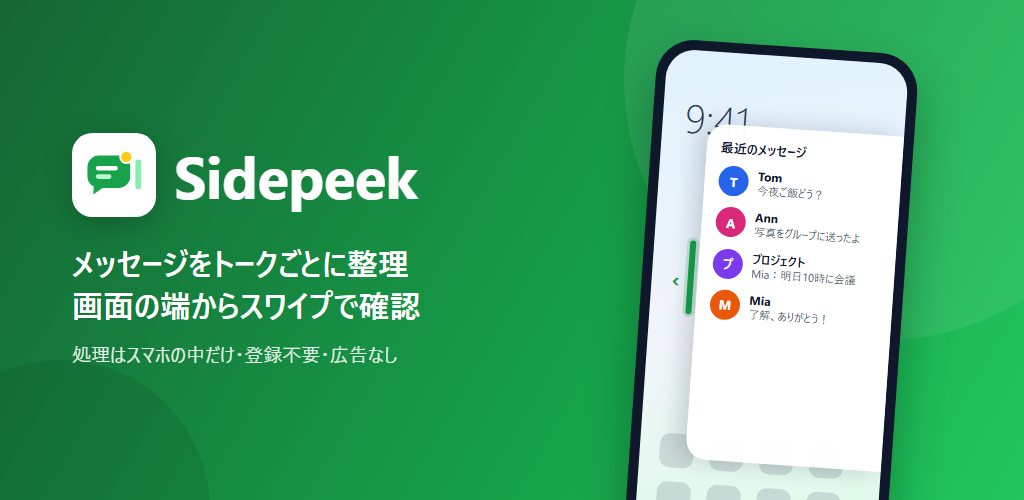
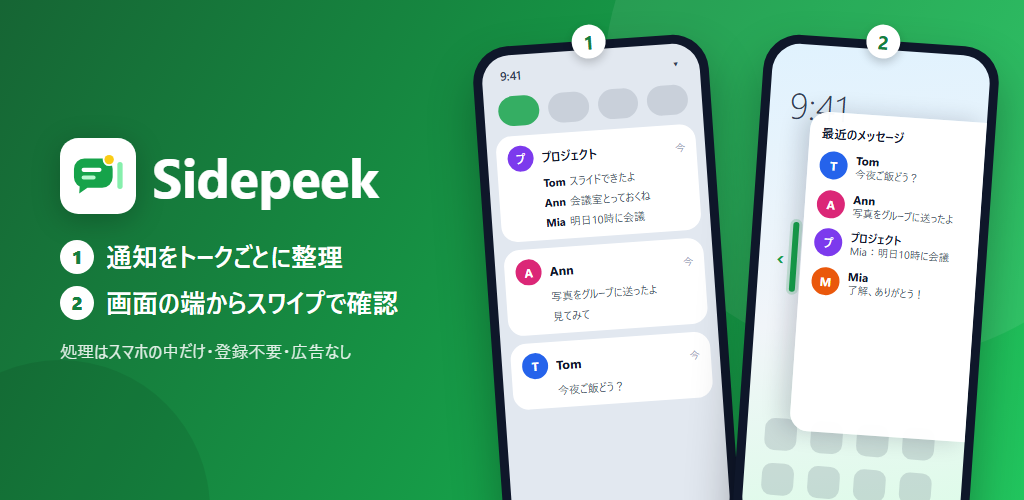
主題圖片改成兩支手機：聊天室整理＋Peek 側邊欄

diff --git a/store/feature-graphic/feature.html b/store/feature-graphic/feature.html
@@ -1,6 +1,7 @@
 <!doctype html>
 <!--
   Play 商店主題圖片（Feature graphic，1024×500）。
+  呈現兩個主要功能：①通知依聊天室整理（左手機：通知欄）②Peek 條＋側邊欄（右手機）。
   用 Chrome 無頭模式截圖產生四種語言的 PNG：node store/feature-graphic/render.js
   語言用網址 #zh-TW / #en / #ja / #ko 切換。畫面裡的名字、訊息都是假資料。
 -->
@@ -18,46 +19,66 @@
   body[data-lang="ja"]    { font-family: "Segoe UI", "Yu Gothic UI", "Meiryo UI", sans-serif; }
   body[data-lang="ko"]    { font-family: "Segoe UI", "Malgun Gothic", sans-serif; }
 
-  /* 背景的淡圓，增加層次 */
   .glow { position: absolute; border-radius: 50%; background: rgba(255,255,255,.08); }
-  .g1 { width: 520px; height: 520px; right: -120px; top: -180px; }
+  .g1 { width: 560px; height: 560px; right: -140px; top: -200px; }
   .g2 { width: 300px; height: 300px; left: -90px; bottom: -160px; background: rgba(0,0,0,.08); }
 
-  .left { position: absolute; left: 72px; top: 0; bottom: 0; width: 470px;
+  .left { position: absolute; left: 60px; top: 0; bottom: 0; width: 420px;
           display: flex; flex-direction: column; justify-content: center; }
-  .brand { display: flex; align-items: center; gap: 18px; }
-  .brand svg { width: 84px; height: 84px; filter: drop-shadow(0 6px 14px rgba(0,0,0,.22)); }
-  .name { font-size: 58px; font-weight: 700; letter-spacing: -.5px; }
-  .tag { margin-top: 26px; font-size: 31px; font-weight: 600; line-height: 1.35; }
-  .tag span { display: block; }
-  .sub { margin-top: 14px; font-size: 19px; opacity: .88; line-height: 1.4; }
+  .brand { display: flex; align-items: center; gap: 16px; }
+  .brand svg { width: 76px; height: 76px; filter: drop-shadow(0 6px 14px rgba(0,0,0,.22)); }
+  .name { font-size: 54px; font-weight: 700; letter-spacing: -.5px; }
+  .feat { margin-top: 26px; display: flex; flex-direction: column; gap: 12px; }
+  .feat div { display: flex; align-items: center; gap: 12px; font-size: 26px; font-weight: 600; line-height: 1.25; }
+  .feat b { flex: none; width: 34px; height: 34px; border-radius: 50%; background: #fff; color: #15803D;
+            font-size: 19px; display: flex; align-items: center; justify-content: center; }
+  .sub { margin-top: 20px; font-size: 17px; opacity: .88; }
 
-  /* 手機 */
-  .phone { position: absolute; left: 640px; top: 46px; width: 262px; height: 520px;
-           border-radius: 38px; background: #0F172A; padding: 10px; box-sizing: border-box;
-           box-shadow: 0 24px 48px rgba(0,0,0,.30); transform: rotate(4deg); }
-  .screen { position: relative; width: 100%; height: 100%; border-radius: 29px; overflow: hidden;
-            background: linear-gradient(170deg, #E0F2FE 0%, #F1F5F9 55%, #DCFCE7 100%); }
-  .clock { position: absolute; left: 22px; top: 40px; color: #334155; font-size: 40px; font-weight: 300; }
-  .apps { position: absolute; left: 20px; bottom: 34px; display: grid;
-          grid-template-columns: repeat(4, 34px); gap: 14px 16px; }
-  .apps i { width: 34px; height: 34px; border-radius: 10px; background: rgba(51,65,85,.16); display: block; }
+  /* 手機共用 */
+  .phone { position: absolute; top: 40px; width: 236px; height: 500px; border-radius: 36px;
+           background: #0F172A; padding: 9px; box-sizing: border-box; box-shadow: 0 24px 48px rgba(0,0,0,.30); }
+  .screen { position: relative; width: 100%; height: 100%; border-radius: 28px; overflow: hidden; }
+  .badge { position: absolute; top: -16px; left: 50%; transform: translateX(-50%); z-index: 2;
+           width: 34px; height: 34px; border-radius: 50%; background: #fff; color: #15803D;
+           font-size: 19px; font-weight: 700; display: flex; align-items: center; justify-content: center;
+           box-shadow: 0 4px 10px rgba(0,0,0,.2); }
 
-  /* 側邊欄 */
-  .panel { position: absolute; right: 0; top: 72px; width: 196px; bottom: 92px;
-           background: rgba(255,255,255,.97); border-radius: 20px 0 0 20px;
-           box-shadow: -8px 0 22px rgba(15,23,42,.18); padding: 14px 12px 0 14px; box-sizing: border-box; }
-  .panel h4 { margin: 0 0 10px; color: #0F172A; font-size: 13px; font-weight: 700; }
-  .row { display: flex; gap: 9px; align-items: flex-start; margin-bottom: 11px; }
-  .av { flex: none; width: 30px; height: 30px; border-radius: 50%; color: #fff;
-        font-size: 13px; font-weight: 700; display: flex; align-items: center; justify-content: center; }
+  /* ① 通知欄 */
+  .pA { left: 488px; transform: rotate(-4deg); }
+  .pA .screen { background: #E2E8F0; }
+  .bar { display: flex; justify-content: space-between; padding: 12px 18px 0; color: #334155; font-size: 12px; font-weight: 600; }
+  .qs { display: flex; gap: 9px; padding: 12px 14px 10px; }
+  .qs i { flex: 1; height: 30px; border-radius: 15px; background: rgba(51,65,85,.14); }
+  .qs i:first-child { background: #16A34A; opacity: .85; }
+  .card { margin: 0 9px 8px; background: #fff; border-radius: 16px; padding: 10px 11px; color: #0F172A; }
+  .ch { display: flex; align-items: center; gap: 8px; }
+  .ch .av { width: 26px; height: 26px; font-size: 12px; }
+  .ct { font-size: 12.5px; font-weight: 700; flex: 1; min-width: 0; white-space: nowrap; overflow: hidden; text-overflow: ellipsis; }
+  .tm { font-size: 10px; color: #94A3B8; }
+  .ln { margin: 5px 0 0 34px; font-size: 11px; color: #475569; white-space: nowrap; overflow: hidden; text-overflow: ellipsis; }
+  .ln s { text-decoration: none; color: #0F172A; font-weight: 700; margin-right: 4px; }
+
+  /* ② Peek 條＋側邊欄 */
+  .pB { left: 748px; transform: rotate(4deg); }
+  .pB .screen { background: linear-gradient(170deg, #E0F2FE 0%, #F1F5F9 55%, #DCFCE7 100%); }
+  .clock { position: absolute; left: 20px; top: 36px; color: #334155; font-size: 36px; font-weight: 300; }
+  .apps { position: absolute; left: 18px; bottom: 30px; display: grid;
+          grid-template-columns: repeat(4, 32px); gap: 13px 14px; }
+  .apps i { width: 32px; height: 32px; border-radius: 10px; background: rgba(51,65,85,.16); display: block; }
+  .panel { position: absolute; right: 0; top: 66px; width: 176px; bottom: 96px;
+           background: rgba(255,255,255,.97); border-radius: 18px 0 0 18px;
+           box-shadow: -8px 0 22px rgba(15,23,42,.18); padding: 13px 10px 0 12px; box-sizing: border-box; }
+  .panel h4 { margin: 0 0 10px; color: #0F172A; font-size: 12.5px; font-weight: 700; }
+  .row { display: flex; gap: 8px; align-items: flex-start; margin-bottom: 10px; }
   .txt { min-width: 0; }
-  .who { color: #0F172A; font-size: 12px; font-weight: 700; }
-  .msg { color: #475569; font-size: 11px; line-height: 1.3; white-space: nowrap; overflow: hidden; text-overflow: ellipsis; width: 128px; }
-  /* Peek 條 */
-  .peek { position: absolute; right: 200px; top: 190px; width: 6px; height: 74px; border-radius: 3px;
+  .who { color: #0F172A; font-size: 11.5px; font-weight: 700; }
+  .msg { color: #475569; font-size: 10.5px; line-height: 1.3; white-space: nowrap; overflow: hidden; text-overflow: ellipsis; width: 118px; }
+  .peek { position: absolute; right: 180px; top: 178px; width: 6px; height: 70px; border-radius: 3px;
           background: #16A34A; box-shadow: 0 0 0 3px rgba(22,163,74,.18); }
-  .hint { position: absolute; right: 214px; top: 214px; color: #16A34A; font-size: 22px; font-weight: 700; }
+  .hint { position: absolute; right: 193px; top: 199px; color: #16A34A; font-size: 21px; font-weight: 700; }
+
+  .av { flex: none; width: 28px; height: 28px; border-radius: 50%; color: #fff;
+        font-size: 12px; font-weight: 700; display: flex; align-items: center; justify-content: center; }
 </style>
 </head>
 <body>
@@ -78,44 +99,87 @@
     </svg>
     <div class="name">Sidepeek</div>
   </div>
-  <div class="tag"><span id="t1"></span><span id="t2"></span></div>
+  <div class="feat">
+    <div><b>1</b><span id="f1"></span></div>
+    <div><b>2</b><span id="f2"></span></div>
+  </div>
   <div class="sub" id="sub"></div>
 </div>
 
-<div class="phone"><div class="screen">
+<!-- ① 通知依聊天室整理 -->
+<div class="phone pA"><div class="badge">1</div><div class="screen">
+  <div class="bar"><span>9:41</span><span>▾</span></div>
+  <div class="qs"><i></i><i></i><i></i><i></i></div>
+  <div id="cards"></div>
+</div></div>
+
+<!-- ② Peek 條＋側邊欄 -->
+<div class="phone pB"><div class="badge">2</div><div class="screen">
   <div class="clock">9:41</div>
   <div class="apps"><i></i><i></i><i></i><i></i><i></i><i></i><i></i><i></i></div>
   <div class="peek"></div><div class="hint">‹</div>
-  <div class="panel">
-    <h4 id="ph"></h4>
-    <div id="rows"></div>
-  </div>
+  <div class="panel"><h4 id="ph"></h4><div id="rows"></div></div>
 </div></div>
 
 <script>
 const T = {
-  "zh-TW": { t1: "訊息依聊天室整理", t2: "從邊緣一滑就看到", sub: "全部在手機上處理・不需註冊・沒有廣告", ph: "最近訊息",
+  "zh-TW": { f1: "通知依聊天室整理", f2: "從邊緣一滑看最近訊息", sub: "全部在手機上處理・不需註冊・沒有廣告", ph: "最近訊息", now: "現在",
+    group: "專案", cards: [
+      ["專案", [["Tom", "投影片好了"], ["Ann", "我來訂會議室"], ["Mia", "明天十點開會"]]],
+      ["Ann", [["", "照片我傳到群組了"], ["", "你看一下"]]],
+      ["Tom", [["", "晚上一起吃飯嗎？"]]]],
     rows: [["Tom", "晚上一起吃飯嗎？"], ["Ann", "照片我傳到群組了"], ["專案", "Mia：明天十點開會"], ["Mia", "收到，謝謝！"]] },
-  "en": { t1: "Messages sorted by chat.", t2: "Swipe in from the edge.", sub: "Runs on your phone · No sign-up · No ads", ph: "Recent",
+  "en": { f1: "Notifications sorted by chat", f2: "Swipe in from the edge", sub: "Runs on your phone · No sign-up · No ads", ph: "Recent", now: "now",
+    cards: [
+      ["Project", [["Tom", "Slides are ready"], ["Ann", "I'll book the room"], ["Mia", "Meeting at 10 tomorrow"]]],
+      ["Ann", [["", "Photos are in the group"], ["", "Take a look"]]],
+      ["Tom", [["", "Dinner tonight?"]]]],
     rows: [["Tom", "Dinner tonight?"], ["Ann", "Photos are in the group"], ["Project", "Mia: Meeting at 10"], ["Mia", "Got it, thanks!"]] },
-  "ja": { t1: "メッセージをトークごとに整理", t2: "画面の端からスワイプで確認", sub: "処理はスマホの中だけ・登録不要・広告なし", ph: "最近のメッセージ",
+  "ja": { f1: "通知をトークごとに整理", f2: "画面の端からスワイプで確認", sub: "処理はスマホの中だけ・登録不要・広告なし", ph: "最近のメッセージ", now: "今",
+    cards: [
+      ["プロジェクト", [["Tom", "スライドできたよ"], ["Ann", "会議室とっておくね"], ["Mia", "明日10時に会議"]]],
+      ["Ann", [["", "写真をグループに送ったよ"], ["", "見てみて"]]],
+      ["Tom", [["", "今夜ご飯どう？"]]]],
     rows: [["Tom", "今夜ご飯どう？"], ["Ann", "写真をグループに送ったよ"], ["プロジェクト", "Mia：明日10時に会議"], ["Mia", "了解、ありがとう！"]] },
-  "ko": { t1: "메시지를 채팅방별로 정리", t2: "가장자리에서 밀어 바로 확인", sub: "모든 처리는 휴대폰 안에서 · 가입 없음 · 광고 없음", ph: "최근 메시지",
+  "ko": { f1: "알림을 채팅방별로 정리", f2: "가장자리에서 밀어 바로 확인", sub: "모든 처리는 휴대폰 안에서 · 가입 없음 · 광고 없음", ph: "최근 메시지", now: "지금",
+    cards: [
+      ["프로젝트", [["Tom", "슬라이드 다 했어"], ["Ann", "회의실은 내가 잡을게"], ["Mia", "내일 10시 회의"]]],
+      ["Ann", [["", "사진 그룹에 올렸어"], ["", "한번 봐줘"]]],
+      ["Tom", [["", "오늘 저녁 같이 먹을래?"]]]],
     rows: [["Tom", "오늘 저녁 같이 먹을래?"], ["Ann", "사진 그룹에 올렸어"], ["프로젝트", "Mia: 내일 10시 회의"], ["Mia", "알겠어, 고마워!"]] },
 };
-const COLORS = ["#2563EB", "#DB2777", "#7C3AED", "#EA580C"];
+const COLOR = { Tom: "#2563EB", Ann: "#DB2777", Mia: "#EA580C" };
+const GROUP_COLOR = "#7C3AED";
 const lang = (location.hash.slice(1) || "zh-TW");
 const d = T[lang] || T["zh-TW"];
 document.documentElement.lang = lang;
 document.body.dataset.lang = lang;
-for (const k of ["t1", "t2", "sub", "ph"]) document.getElementById(k).textContent = d[k];
-document.getElementById("rows").innerHTML = d.rows.map(([who, msg], i) =>
-  `<div class="row"><div class="av" style="background:${COLORS[i]}">${who[0]}</div>` +
-  `<div class="txt"><div class="who"></div><div class="msg"></div></div></div>`).join("");
-document.querySelectorAll("#rows .row").forEach((r, i) => {
-  r.querySelector(".who").textContent = d.rows[i][0];
-  r.querySelector(".msg").textContent = d.rows[i][1];
-});
+for (const k of ["f1", "f2", "sub", "ph"]) document.getElementById(k).textContent = d[k];
+
+const el = (tag, cls, text) => { const e = document.createElement(tag); if (cls) e.className = cls; if (text != null) e.textContent = text; return e; };
+const avatar = (name) => { const a = el("div", "av", name[0]); a.style.background = COLOR[name] || GROUP_COLOR; return a; };
+
+const cards = document.getElementById("cards");
+for (const [title, lines] of d.cards) {
+  const c = el("div", "card"), h = el("div", "ch");
+  h.append(avatar(title), el("div", "ct", title), el("div", "tm", d.now));
+  c.append(h);
+  for (const [who, msg] of lines) {
+    const l = el("div", "ln");
+    if (who) l.append(el("s", null, who));
+    l.append(document.createTextNode(msg));
+    c.append(l);
+  }
+  cards.append(c);
+}
+
+const rows = document.getElementById("rows");
+for (const [who, msg] of d.rows) {
+  const r = el("div", "row"), t = el("div", "txt");
+  t.append(el("div", "who", who), el("div", "msg", msg));
+  r.append(avatar(who), t);
+  rows.append(r);
+}
 </script>
 </body>
 </html>

diff --git a/HANDOFF.md b/HANDOFF.md
@@ -15,7 +15,7 @@ Android App「Sidepeek」：LINE 通知依聊天室整理（只接管 LINE），
    - **11/13 權限檢查結果**：①`UpdateChecker`（提示去 GitHub 下載 APK）可能違反「只能經 Play 更新」→ **已改（11/14，做法 A）**：`BuildConfig.SELF_UPDATE_CHECK`（github true／play false），`UpdateChecker.enabled()` 在 Play 版永遠 false（不連 GitHub、首頁不出現「前往下載新版」）；設定清單 `settingsItems` 濾掉 `cardOther`「檢查更新」，`setupSettingsPages` 把卡片設 GONE。使用者知道別的 App 用 Google In-App Updates，選擇先不加（做法 B 以後再說）。隱私權政策（四語 `strings_privacy.xml`、`docs/privacy.md`）改成「只有從 GitHub 下載的版本會查詢，Play 版由商店更新」，順便修正關閉位置為「設定 → 檢查更新」，最後更新日改 2026/11/14；網站要 push 後才會更新。備份在 `D:\projects\sidepeek-backups\before-play-update-off-20261114\`。②電池直接請求 → **已改**（見下）。③無障礙要填聲明＋影片（揭露畫面 → 同意 → 不同意與如何再叫出 → 核心功能）；要先解釋 `flagRequestFilterKeyEvents` 只攔返回鍵、`canRetrieveWindowContent` 只為進階清理讀 LINE 聊天室名稱和判斷前景。④`EdgePanelService` specialUse 前景服務要填聲明＋影片，保留（不想開無障礙的替代方案）。⑤沒問題：`<queries>` LAUNCHER（不是 QUERY_ALL_PACKAGES）、使用情況、上層顯示、targetSdk 36；資料安全可填「不收集、不分享」（要隱私權政策網址）；商店標題和圖示不能用 LINE。
    - **github／play 兩個 flavor（11/13，未實機測試）**：`app/build.gradle.kts` 加 `store` 維度。`BuildConfig.DIRECT_BATTERY_REQUEST`：github＝true（照舊直接跳系統視窗），play＝false（`MainActivity.requestBatteryExemption` 打開 App 資訊頁＋Toast `toast_battery_app_info`「在這頁點「電池」，選「不受限制」」）。`src/play/AndroidManifest.xml` 用 `tools:node="remove"` 拿掉 `REQUEST_IGNORE_BATTERY_OPTIMIZATIONS`（合併後 manifest 已確認）。CI（build.yml）改成 `testGithubDebugUnitTest`、`assembleGithubRelease`、`apk/github/release/`、`app-github-release-unsigned.apk`，還沒在 GitHub 上跑過。README 的建置指令（`assembleDebug`／`bundleRelease`／`assembleRelease` 現在會兩個 flavor 都編）還沒改。之後 Play 版要關的東西（例如 UpdateChecker）照這個模式加 buildConfigField。備份在 `D:\projects\sidepeek-backups\before-play-battery-20261113\`。
    - **上架草稿（11/14）**：`store/play-console-draft.md`＝無障礙 API 聲明、specialUse 前景服務聲明、資料安全（填「不收集、不分享」）、兩支影片的拍攝步驟、其他 Console 欄位，要貼的文字用英文。`store/play-listing-draft.md`＝四語名稱／簡短說明／完整說明（字數都在 30／80／4000 內，node 算過）、圖片規格、6 張截圖計畫（只能用假資料）。日、韓文是初稿，最好請母語者看過。名稱、圖示不能有 LINE、三星商標或 LINE 綠。
-   - **主題圖片（11/14）**：`store/feature-graphic/feature-{zh-TW,en,ja,ko}.png`（1024×500、24 位元 PNG 無 alpha）。原始檔 `feature.html`（`#語言` 切換），`node store/feature-graphic/render.js` 用 Chrome 無頭截圖＋ffmpeg 去 alpha 重新產生。圖上刻意不寫「LINE」，名字訊息都是假資料（Tom、Ann、Mia、專案）。還沒在 Play Console 預覽過裁切。
+   - **主題圖片（11/14）**：`store/feature-graphic/feature-{zh-TW,en,ja,ko}.png`（1024×500、24 位元 PNG 無 alpha），兩支手機呈現兩個主要功能：①通知欄裡依聊天室整理的通知 ②Peek 條＋側邊欄（使用者要求兩個功能都要有）。原始檔 `feature.html`（`#語言` 切換），`node store/feature-graphic/render.js` 用 Chrome 無頭截圖＋ffmpeg 去 alpha 重新產生。圖上刻意不寫「LINE」，名字訊息都是假資料（Tom、Ann、Mia、專案）。還沒在 Play Console 預覽過裁切。
    - 還沒做：手機截圖、錄兩支聲明影片並上傳 YouTube「不公開」、網站 privacy.html 要 push 到 main 才會更新。
 5. LINE 未接來電轉發（語音、視訊）還沒實機驗證；回覆測試者 Alina 的信由使用者自己寄。
 6. 網站、README 還沒同步多語言、常見問題新內容。
